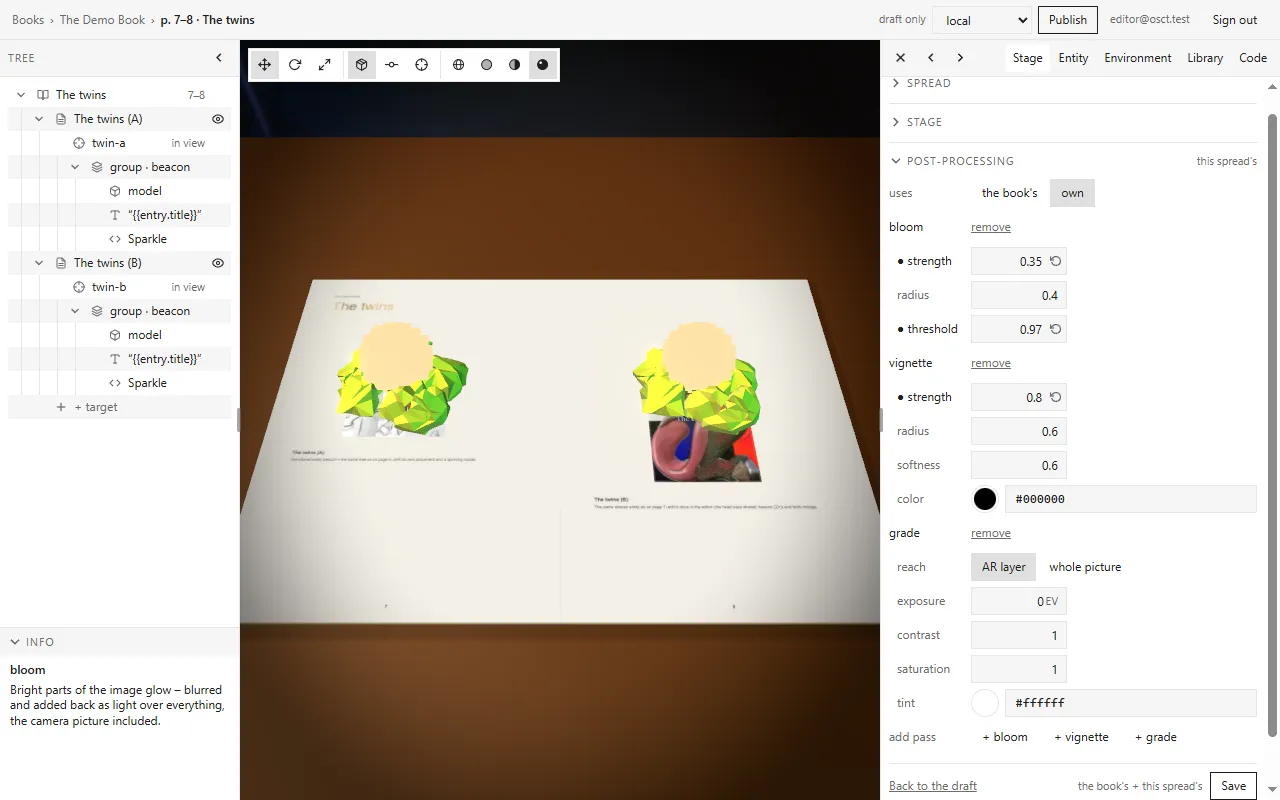
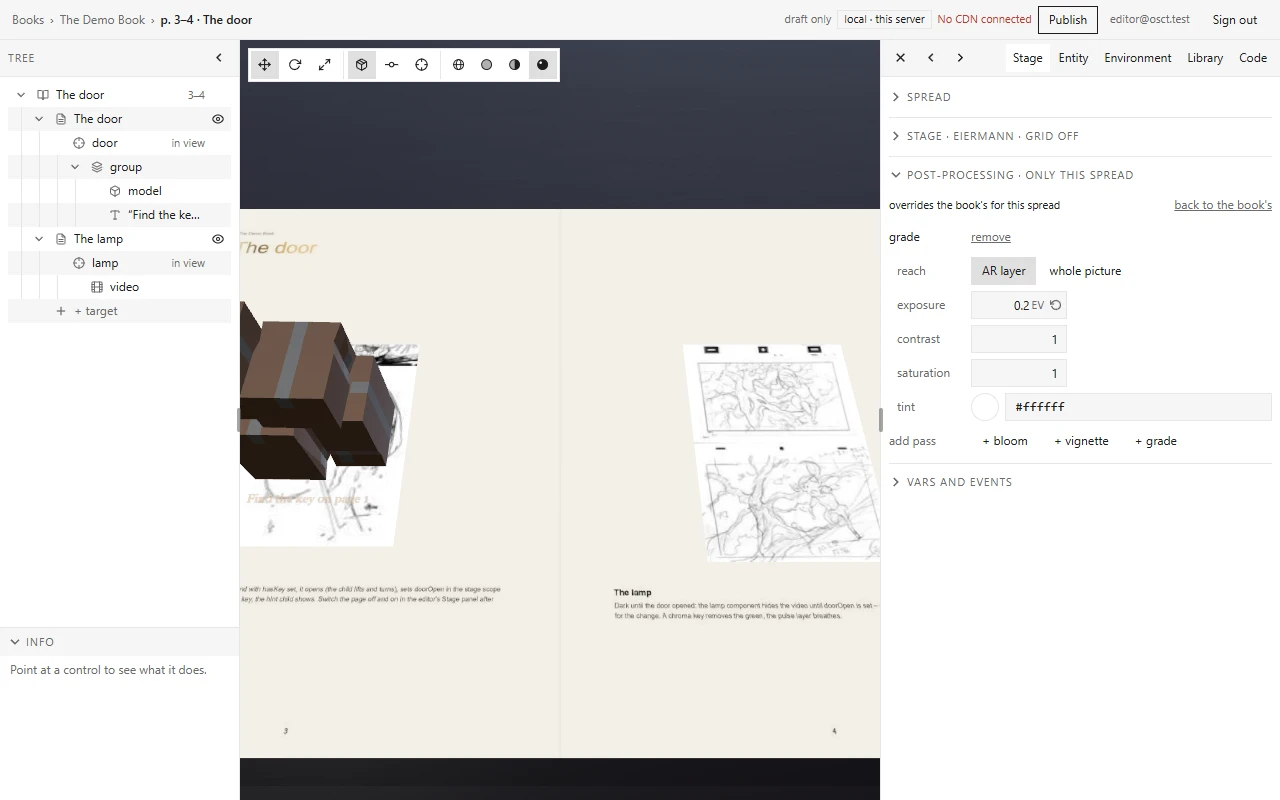
Unreleased: the post-processing level and the panels' defaults in the changelog, editor docs and tutorial (fresh shots, the spread removal paragraph); the master chain stays (MEMORY)

diff --git a/client/public/docs/tutorials/index.html b/client/public/docs/tutorials/index.html
@@ -550,21 +550,23 @@ npm run osct -- content status --env staging</code></pre>
   </figure>
 
   <h3 class="sec" id="tools-spreads">Adding and removing spreads</h3>
-  <p>The book page has <b>+ double page</b> in its first line: a new, empty double page after the last one, before the back cover. Point at a card for <b>+ after</b> (a double page right after that spread) and <b>remove</b>. A new double page takes the two pages after the spread before it, and every later page is numbered on by two – the later spreads, their entries and their targets' printed pages move with them. <b>remove</b> takes out an empty spread and numbers the later pages back. A spread with entries, or the one the book opens on, cannot be removed: the button is disabled, and the Info view says why.</p>
+  <p>The book page has <b>+ double page</b> in its first line: a new, empty double page after the last one, before the back cover. Every card has a menu – a right click, a long press or the menu key – with <b>Open</b>, <b>Add a double page after</b> and <b>Remove</b>. A new double page takes the two pages after the spread before it, and every later page is numbered on by two – the later spreads, their entries and their targets' printed pages move with them.</p>
+  <p><b>Remove</b> takes the spread out with everything on it, and asks first. The card shows what goes – <em>Removes spread 5–6 with 3 entries, 2 targets, 2 entities.</em> –, that the pages after it are numbered back, which shared entities stay because other targets use them, and that the Library files are kept; an option, off at first, also deletes the files used only there. Nothing is removed until you press <b>Remove spread 5–6</b> in that confirmation; <b>Keep</b> leaves everything as it was. The spread the book opens on cannot be removed: its <b>Remove</b> is disabled, and the Info view says why.</p>
   <figure class="shot">
-    <img src="/docs/tutorials/tools/06-spreads.webp" width="1280" height="800" loading="lazy" alt="The demo book's page with the pointer on the card 5–6 · The switch: + after and a greyed-out remove show over its sheet; the first line reads OSCT · 6 spreads · assets at … · + double page; the Info view says remove removes this spread from the draft, and that it has 3 entries, delete them first.">
-    <figcaption><b>remove</b> on <em>5–6 · The switch</em> is disabled: the spread has three entries. <b>+ after</b> would add a double page after it.</figcaption>
+    <img src="/docs/tutorials/tools/06-spreads.webp" width="1280" height="800" loading="lazy" alt="The demo book's page: under the card 5–6 · The switch the confirmation reads Removes spread 5–6 with 3 entries, 2 targets, 2 entities., The pages after it are numbered back by 2., Library files are kept., with the buttons Remove spread 5–6 and Keep; the first line reads OSCT · 6 spreads · assets at … · + double page.">
+    <figcaption><b>Remove</b> from the menu of <em>5–6 · The switch</em>: the card says what would go. Nothing is removed until <b>Remove spread 5–6</b>; this shot ended with <b>Keep</b>.</figcaption>
   </figure>
 
   <h3 class="sec" id="tools-post">Post-processing: the book's and a spread's own</h3>
-  <p>The passes in the Stage tab's <b>post-processing</b> belong to the <b>book</b>: edited once, every spread without a list of its own shows them. The row <b>uses</b> says which list is in effect for the spread on the stage, and the section's head repeats it. <em>the book's</em> is the default – changing the list then changes it for every such spread. <em>own</em> gives this spread an override that starts as a copy of the book's; choosing <em>the book's</em> again drops it. <b>Save</b> writes what changed: the book's list, the spread's, or both.</p>
+  <p>The passes in the Stage tab's <b>post-processing</b> belong to the <b>book</b>: edited once, every spread without a list of its own shows them. The section's head names the level in words: <b>post-processing · the whole book</b> while the spread on the stage uses the book's list, <b>post-processing · only this spread</b> while it has its own. Like every section of the Stage tab it starts closed, and its head still says the level.</p>
+  <p>The line under the head says what editing changes. With the book's list it counts the spreads: <em>changes all 5 spreads that use the book's</em>. <b>own for this spread</b> at its end gives this spread an override that starts as a copy of the book's; the line then reads <em>overrides the book's for this spread</em>, and <b>back to the book's</b> drops the override again. <b>Save</b> says what it saves: <em>Save for the whole book</em>, <em>Save for this spread</em>, or <em>Save for the book and this spread</em> when both lists changed.</p>
   <figure class="shot">
-    <img src="/docs/tutorials/tools/07-post-book.webp" width="1280" height="800" loading="lazy" alt="The twins spread in the rendered shading with a soft bloom and a dark vignette at the edges; the Stage panel's post-processing section reads the book's: uses the book's, a bloom with strength 0.35, radius 0.4 and threshold 0.97, a vignette with strength 0.8, radius 0.6, softness 0.6 and the colour #000000, a dot before every changed row; Back to the draft and Save, with the book's beside Save.">
-    <figcaption>A bloom and a vignette in the book's list – every spread without its own shows them. Beside <b>Save</b>: what it would write, <em>the book's</em>.</figcaption>
+    <img src="/docs/tutorials/tools/07-post-book.webp" width="1280" height="800" loading="lazy" alt="The twins spread in the rendered shading with a soft bloom; the Stage panel's sections spread and stage closed, the stage's head reading stage · Eiermann · grid off; post-processing · the whole book open: the line changes all 5 spreads that use the book's with own for this spread at its end, a bloom with strength 0.35, radius 0.4 and threshold 0.97, add pass, then Back to the draft and Save for the whole book; vars and events closed below.">
+    <figcaption>The book's list on the twins, its vignette just removed: five spreads use the book's, so the change reaches all five. <b>Save for the whole book</b> says so too.</figcaption>
   </figure>
   <figure class="shot">
-    <img src="/docs/tutorials/tools/08-post-own.webp" width="1280" height="800" loading="lazy" alt="The same spread with uses set to own: the section's head reads this spread's, the list holds the copied bloom and vignette and a new grade with reach AR layer, exposure, contrast, saturation and tint; at the bottom Back to the draft and, beside Save, the book's + this spread's; the Info view describes the bloom.">
-    <figcaption><em>own</em>: the spread's list starts as a copy of the book's, here with a grade added. <b>Save</b> would write both lists.</figcaption>
+    <img src="/docs/tutorials/tools/08-post-own.webp" width="1280" height="800" loading="lazy" alt="The door spread with its own passes: the head reads post-processing · only this spread, the line overrides the book's for this spread with back to the book's at its end, and the list holds a grade with reach AR layer, exposure 0.2 EV, contrast 1, saturation 1 and tint #ffffff, then add pass.">
+    <figcaption>The door has a list of its own, a grade: it overrides the book's here alone. <b>back to the book's</b> drops it.</figcaption>
   </figure>
 
   <h3 class="sec" id="tools-stage-vars">Tap, variables and the timeline</h3>

diff --git a/docs/editor.md b/docs/editor.md
@@ -297,7 +297,12 @@ is involved.
   - **Stage panel** – collapsible sections, each with a header, the open state kept per section on the device
     (`editor/src/lib/sections.svelte.ts`, `components/Section.svelte`): *spread* (the format), *stage* (shake, grid,
     origin – a 3 × 3 alignment square –, desk, sky), *post-processing*
-    and *vars and events* (closed by default). Every row is the panel's label / control grid (`.row` in `app.css`).
+    and *vars and events*. On a first visit all four are closed (#193); a closed header carries a short summary where
+    it helps – *stage · Eiermann · grid off*, *post-processing · the whole book* –, so closed hides nothing that
+    matters. The first section of any panel draws no divider under the tab row (`.section:first-child` in `app.css`).
+    Every row is the panel's label / control grid (`.row` in `app.css`).
+  - **Environment panel** – two collapsible sections: *environment* (world, sky, onion sky – open on a first visit) and
+    *preview* (look up – closed, its header naming the angle).
   - **The gizmo** – on the stage, three.js `TransformControls` on the selected node (the tree's or the stage's
     selection): **move / rotate / scale** by the toolbar at the top left or **W / E / R**, handles in the node's own
     space, so a drag changes the node's placement **relative to its parent** – the Entity panel's rows follow live,
@@ -307,12 +312,16 @@ is involved.
     hit test) – the reader never calls it.
   - **Post-processing** – the Stage panel's *post-processing* section (content schema 2.5, [content guide](content.md)
     "Post-processing"). **The book's passes are the master**: edited once, every spread without a list of its own
-    shows them. The row **uses** says which list is in effect for the spread on the stage (the section's header repeats
-    it: *the book's*, *this spread's*, *off*, *none*): *the book's* – the default; the list below is then the book's,
-    and editing it changes it for every such spread – or *own* – an override for this spread alone, starting as a copy
-    of the book's (removing every pass turns post-processing off there); choosing *the book's* again drops the
-    override. The list has a row per parameter from the contract's specs; **+ bloom / + vignette / + grade** adds one,
-    *remove* drops one, changes show live on the stage. **Save** writes what changed – the book's list
+    shows them. The section's header names the level in words (#181): **post-processing · the whole book** while the
+    spread on the stage uses the book's list (the default; editing it changes it for every such spread), **post-processing
+    · only this spread** while it has its own – an override for this spread alone, starting as a copy of the book's
+    (removing every pass turns post-processing off there: *· off*; a book without passes reads *· none*). The line under
+    the header says what editing changes – *changes all N spreads that use the book's* (N counted from the draft's
+    spreads without a list of their own, this one as the panel holds it) with **own for this spread**, or *overrides
+    the book's for this spread* with **back to the book's**, which drops the override. The list has a row per
+    parameter from the contract's specs; **+ bloom / + vignette / + grade** adds one, *remove* drops one, changes show
+    live on the stage. **Save** says what it saves – *Save for the whole book*, *Save for this spread* or *Save for the
+    book and this spread* – and writes what changed: the book's list
     (`PUT /editor/books/{id}/passes`, an empty one removes it) and / or the spread's (`PUT …/spreads/{id} { passes }`,
     `null` = back to the book's) –, *Back to the draft* undoes both (`editor/src/lib/passes-edit.ts`). The stage shows
     the passes under **rendered** only (like the HDRI's sky): the mock stage's table, book, printed images and sky lie

diff --git a/agents/MEMORY.md b/agents/MEMORY.md
@@ -4,6 +4,29 @@ Decisions and context that are not obvious from the code. Newest first.
 Add new entries at the top with a date. Tick `[x]` open items when resolved and note the
 outcome in the line (or move it into a dated decision block).
 
+## 2026-10-30 – Panels' first divider and defaults; the post-processing level in words (#193, #181)
+
+- **The book's master chain stays in the Stage tab's post-processing** (#181 asked to consider moving it to the book
+  page or the Environment tab, shown read-only in a spread; "keep it simple"). Kept where it is: once the head names
+  the level ("post-processing · the whole book" / "· only this spread"), the line counts the spreads it changes and
+  Save says what it saves, the level is unmistakable without a second place. Moving it would split one list over two
+  places – the book page has no stage to preview passes on (they show only under *rendered* on a spread), and the
+  override starts as a copy of the book's, which wants both in reach –, and add a read-only view and a link for
+  nothing the wording doesn't already do. Revisit only if authors still confuse the two after the new wording.
+- The level line replaces the *uses: the book's / own* pill pair: its end is the switch (**own for this spread** /
+  **back to the book's**), so the choice is still there in one place, in words.
+- N in "changes all N spreads that use the book's" counts the draft's spreads without passes of their own – an empty
+  own list is an override too (post-processing off) – and the spread on the stage as the panel holds it, so an
+  unsaved *own for this spread* already shows the override line.
+- #193 defaults: Stage tab all closed on a first visit (spread, stage, post-processing, vars and events), the stage's
+  closed head names desk and grid; Environment: *environment* open, *preview* closed. The **Entity tab** keeps its
+  plain section headings (not collapsible): it already shows only the selected level, and components, filters and the
+  plugin material appear only when they have entries – the proposal's state without a toggle. Stored open states per
+  browser (`osct-editor-sections`) are untouched; only the first-visit default changed.
+- The first section's divider goes once in `app.css` (`.section:first-child`), for every panel and the Library's
+  picker head (its own rule went). The Entity tab's first section keeps its line: it sits under the breadcrumb, not
+  under the tab row.
+
 ## 2026-10-30 – Removing a spread or an entry with everything on it (#198)
 
 - Tilman: "AI has the same rights as the user most of the time. So also it needs to get this confirm dialog somehow,

diff --git a/docs/CHANGELOG.md b/docs/CHANGELOG.md
@@ -12,6 +12,25 @@ are the same for app, content build and server (`agents/RULES.md` #10, #23):
 Sections per version: *Added*, *Changed*, *Fixed*, *Removed* (only those that apply). Versions before
 1.1.2 are in the git history.
 
+## Unreleased
+
+### Changed
+- **Post-processing names its level** (#181): the section's head reads *post-processing · the whole book* or
+  *post-processing · only this spread* instead of a small muted label at the right. A line under it says what editing
+  changes – *changes all 5 spreads that use the book's* (counted) or *overrides the book's for this spread* – and ends
+  in the switch, *own for this spread* or *back to the book's* (it replaces the *uses* pill pair). Save says what it
+  saves: *Save for the whole book*, *Save for this spread*, or both. The book's list stays in the Stage tab.
+- **Sections start closed** (#193): on a first visit the Stage tab's *spread*, *stage*, *post-processing* and *vars and
+  events* are closed, the Environment tab's *preview* too (its *environment* stays open). A closed head shows what
+  matters – *stage · Eiermann · grid off*, *preview · look up 0°*, the post-processing level. Sections someone has
+  opened or closed in this browser keep their state.
+- The tutorial's post-processing section and its shots show the new wording; its paragraph on removing a spread
+  describes the card's menu and the confirmation with the impact.
+
+### Fixed
+- **No divider above the first section** (#193): the first section of a panel no longer draws a line right under the
+  tab row, in every tab, on a phone and a desktop.
+
 ## 1.44.0 – 2026-10-30
 
 ### Added
